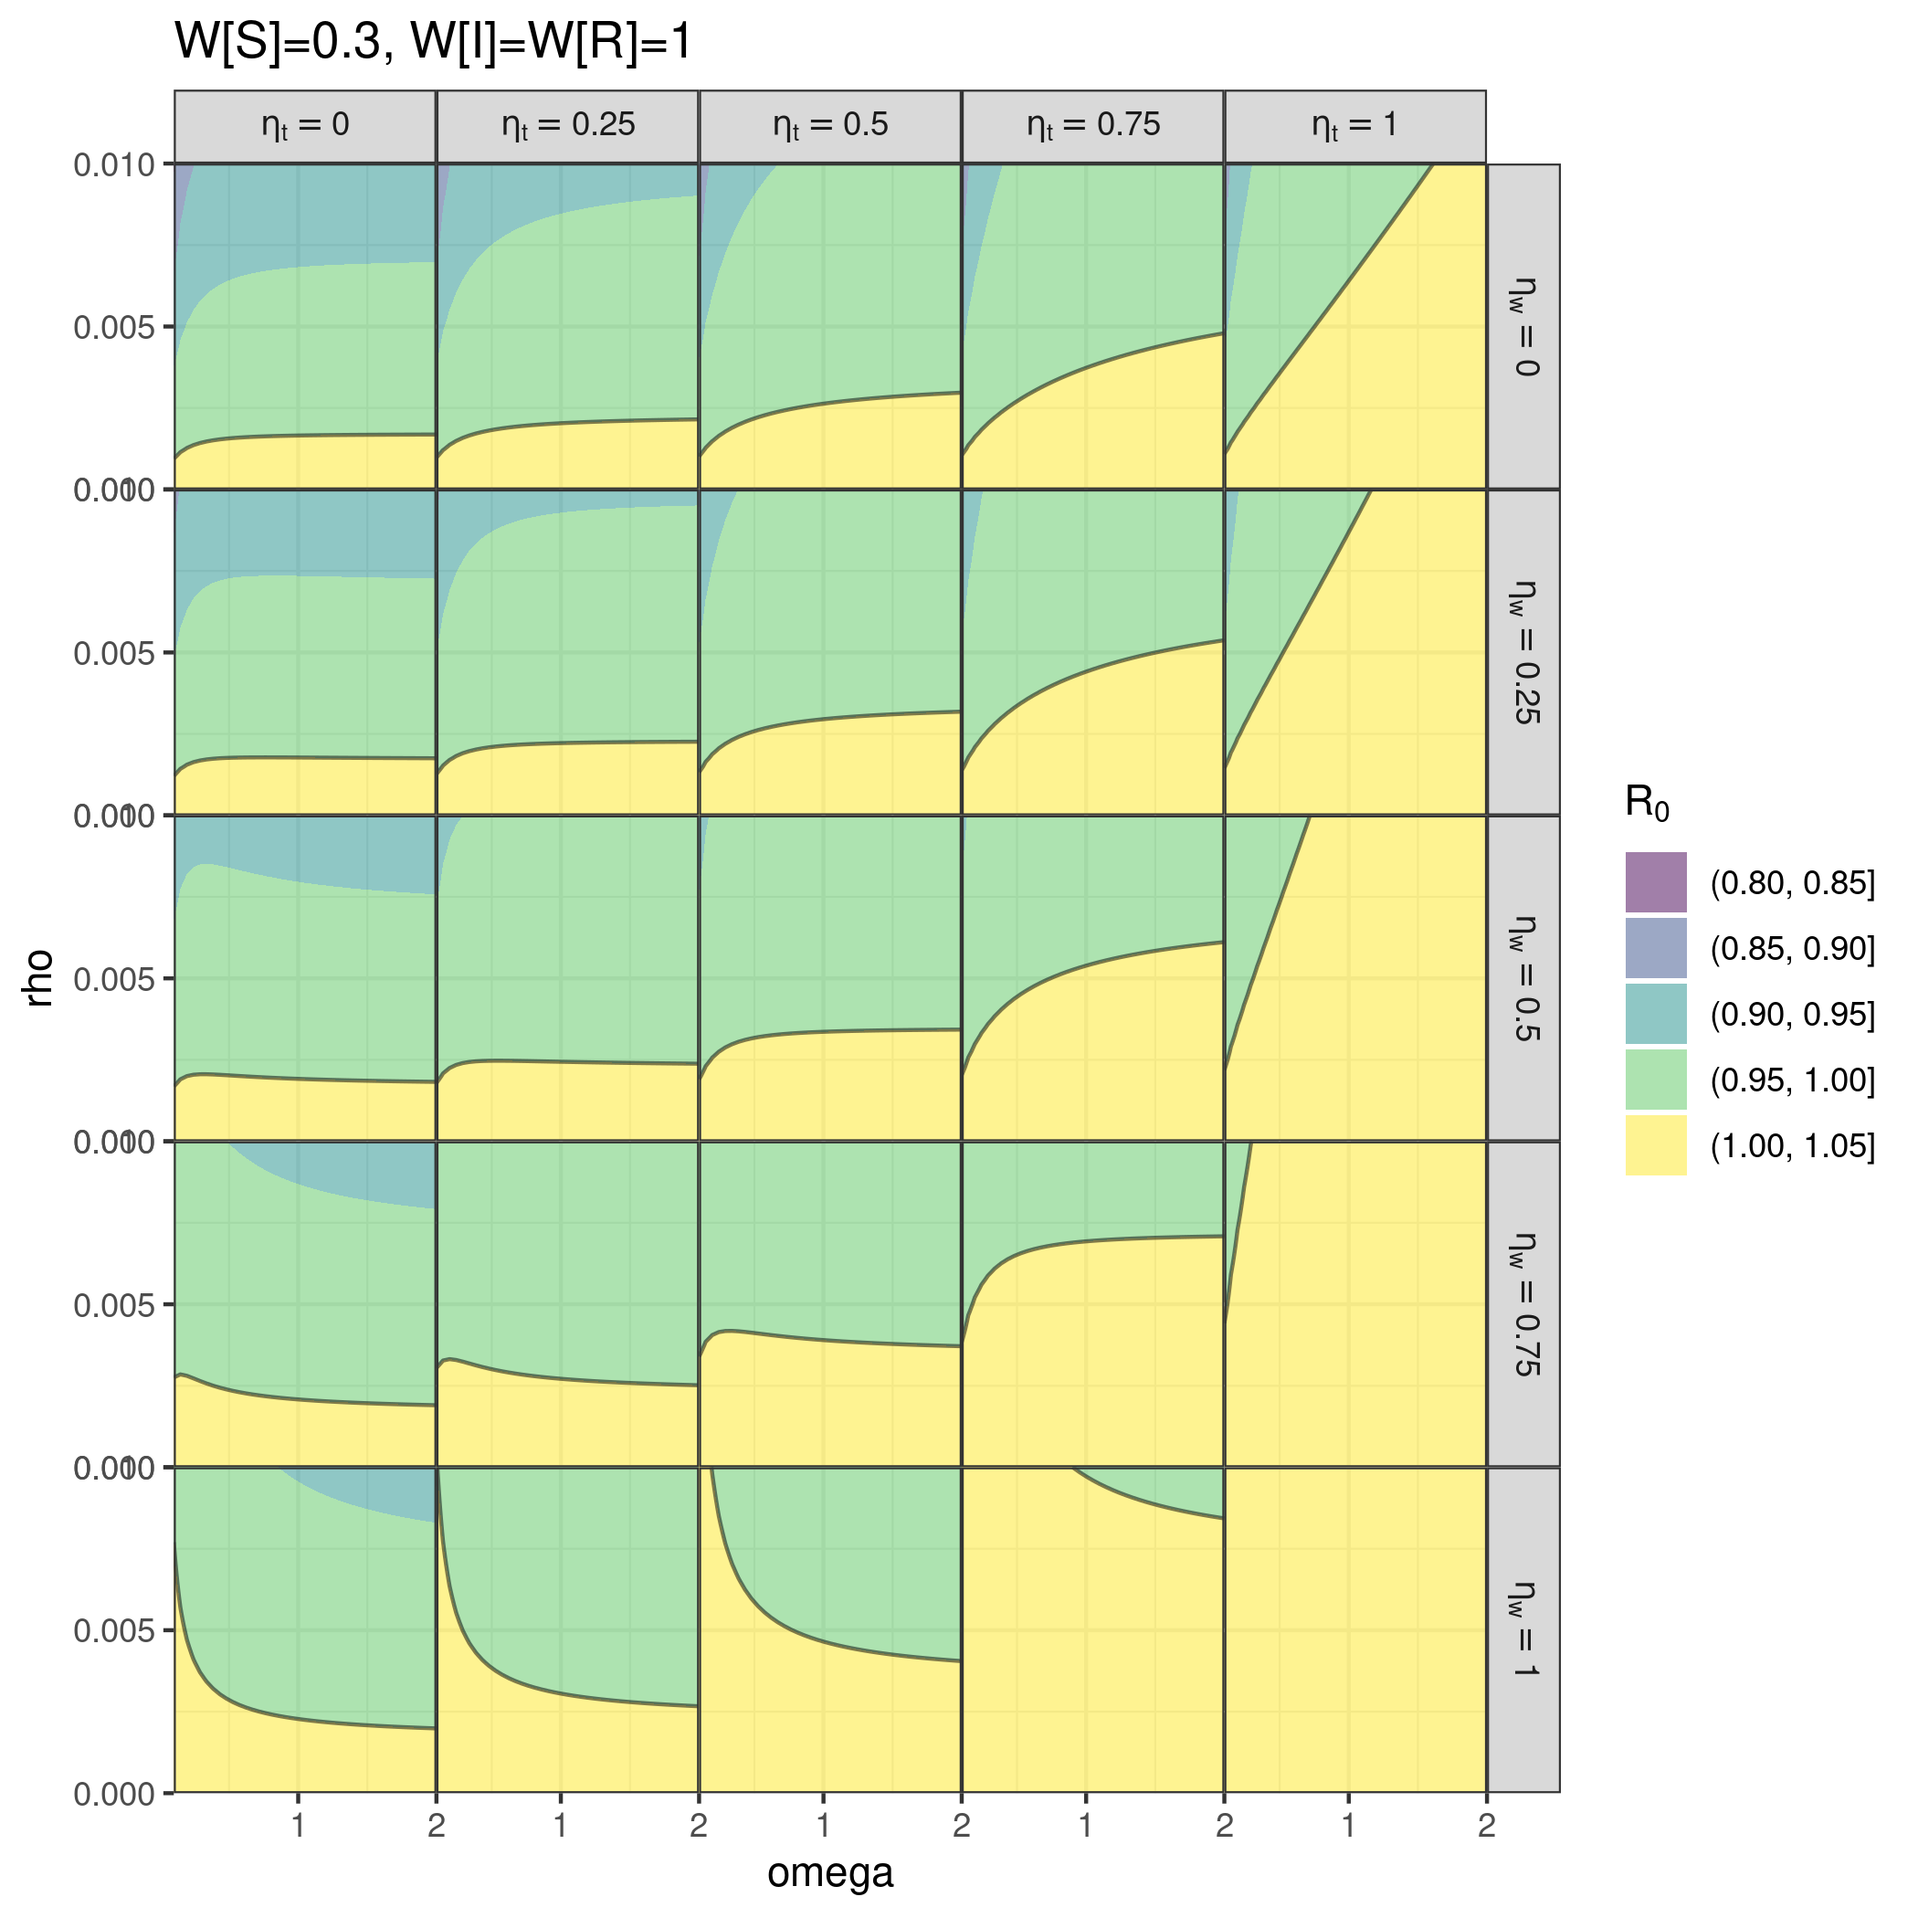
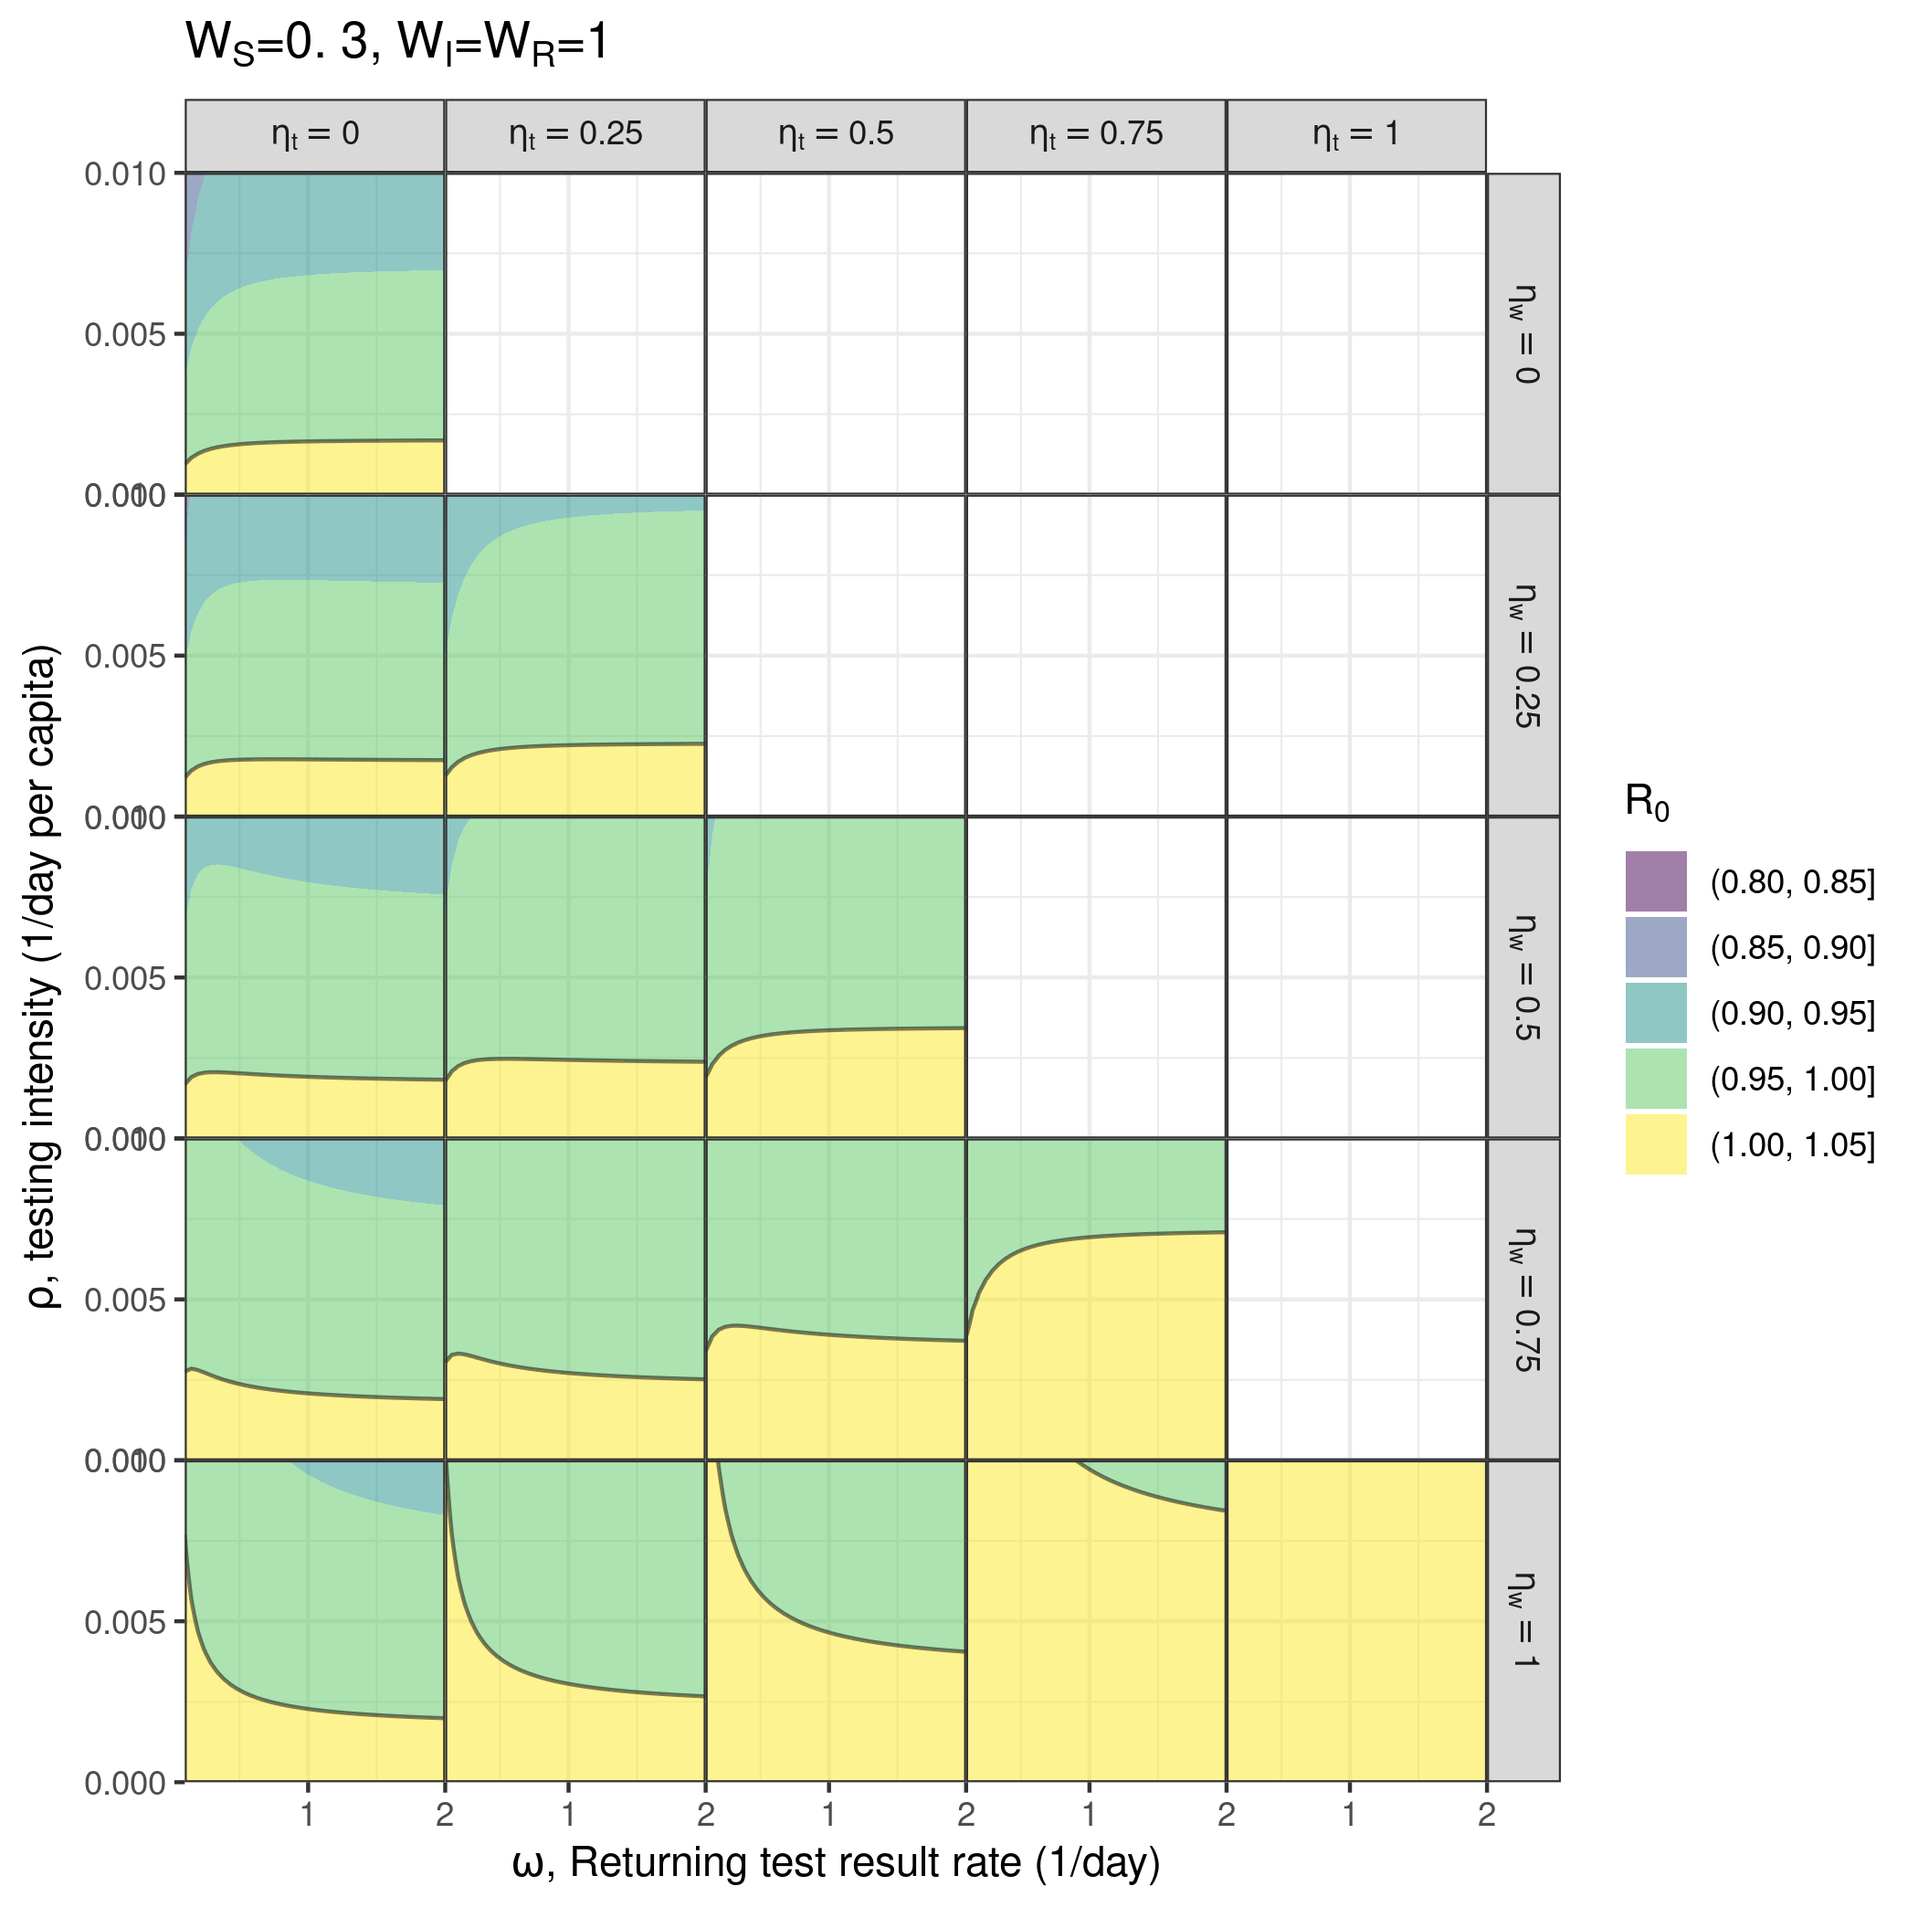
updated panel plot and manuscript

Changed region(s): [[0.0, 0.0, 0.8048, 0.9905], [0.7738, 0.8048, 0.8048, 0.8357]]

diff --git a/SIR_manuscript.tex b/SIR_manuscript.tex
@@ -30,7 +30,8 @@ infectious disease (ref: Ross R. The Prevention of Malaria, 2nd edn. London: Mur
 - Covid-19 and chalanges, questions to be addressed with a simple model.
 This study provides a framework/platform to study a pandamic in a population with a determinstic system of differential equations with testing mechinisms and isolation. 
 
-- Our work; we developed a deterministic compartmental model which incorporates testing strategies and isolation mechanism. 
+- What did we do? Why novel? 
+we developed a deterministic compartmental model which incorporates testing strategies and isolation mechanism. 
 - The basic reproduction number was derived analytically as a threshold of the dynamics. 
 - Our simulation shows ...
 
@@ -74,20 +75,18 @@ relatively controlled with effective testing, isolation, contract tracing and qu
 
 % %%%%%%%
 \section{Method}
-\begin{itemize}
-\item $\Lambda$: force of infection defined as $$\Lambda=\beta \frac{(I_u+\eta_w I_n+\eta_w I_p+ \eta_t I_t)}{N_0},$$ where $\beta$ is transmission rate, $\eta_w$ and $\eta_t$ are the isolation parameters for awaiting and reported individuals, respectively. We assume that $\eta_t \leq \eta_w$, i.e., the awaiting individuals for test results have a higher transmission probability than the reported individuals.
-\item $\omega$: the rate of onward flow from the awaiting positive compartment, $p$, to reported/tested compartment, $\rho$, or from awaiting negative compartment, $n$, back to $u$.  It has units of 1/time.
-\item $\gamma$: recovery rate (1/time).
-\item $\rho$: per capita testing intensity across the whole population (1/time).
-\item $W$: weighted number of people available for tests, defined as $W = W_S S_u + W_I I_u + W_R R_u$.
-\item $\sigma$: scaling parameter for testing defined as $\sigma = \frac{\rho N_0}{W}$.
-\item $F_Z$: Weighted testing rate defined as $F_Z=\sigma W_Z$. That is, $F_S = \sigma W_S$, $F_I=\sigma W_I$ and $F_R = \sigma W_R$.
-\end{itemize}
 
-\includegraphics[width=\linewidth]{./pix/sir_comp.png}
+We used a SIR (Susceptible-Infectious-Recovered) deterministic model. In order to collect cumulative reported negative or positive tests, two 'integrator' or 'accumulator' compartments, $N$ and $P$, were incorporated. The flowchart is 
+
+\begin{figure}[!h] 
+\begin{center} 
+\includegraphics[scale=0.3]{./pix/sir_comp.png}
+\caption{\small Flowchart of the SIR (Susceptible-Infectious-Recovered) model. Say more here to make it stand on its own.
+\label{fig:flowchart}} 
+\end{center} 
+\end{figure}
 
 The model is
-
 \begin{align}
 \label{model}
  d S_u/dt &= -\Lambda S_u - F_S S_u + \omega S_n \\
@@ -103,14 +102,59 @@ The model is
  d R_p/dt &= \gamma I_p + p_R F_R R_u  - \omega R_p  \\
  d R_t/dt&= \gamma I_t + \omega R_p  \\
  dN/dt &= \omega (S_n + I_n + R_n)   \\
- dP/dt &= \omega(I_p + R_p).
+ dP/dt &= \omega(I_p + R_p),
 \end{align}
 
-- Assumptions of this model:
+where $\beta$, (1/day), is the disease transmission rate, $\eta_w$ and $\eta_t$ are the isolation parameters for awaiting and reported individuals, respectively, $\Lambda$ is the force of infection and defined as 
+\begin{equation}
+\label{Lambda}
+\Lambda=\beta \frac{(I_u+\eta_w I_n+\eta_w I_p+ \eta_t I_t)}{N_0},
+\end{equation}
+where $N_0$ is the total population size. Further, $\omega$, (1/day), is the rate of onward flow from the awaiting positive or negative compartments to reported or untested compartments, respectively, $\gamma$, (1/day), is the recovery rate, $\rho$, (1/day), is the per capita testing intensity across the whole population. Further, various testing strategies are incorporated through the compartment-specific relative testing weights $W_S$, $W_I$ and $W_R$. The weighted number of people available for tests is defined as $W = W_S S_u + W_I I_u + W_R R_u$, and the scaling parameter for testing defined as \begin{equation}
+\label{sigma}
+\sigma = \frac{\rho N_0}{W}.
+\end{equation}
+Thus, the weighted testing rate defined as $F_Z=\sigma W_Z$, for $Z \in \{S,I,R\}$. 
+
+- In this model we assumed: (i) all groups being exposed to all others, (ii) there is a single force of infection, $\Lambda$, that is, where a susceptible individual move to does not depend on who infected it, (iii) for simplicity of the analysis, a perfectly specific test, $p_S=0$, was assumed, (iv)  $\eta_t \leq \eta_w$, i.e., the awaiting individuals for test results have a higher transmission probability than the reported individuals. 
 -why not bith and death are included?
 
 % %%%%%%%
 \section{Results}
+
+The Disease-Free Equilibrium, DFE hearafter, for the above SIR model is given by the solution of the following system $S_u+S_n=N0$ and $F_S S_u-\omega S_n=0$. The DFE is
+
+\begin{equation}
+\label{dfe}
+S_n^*= \frac{\rho}{\omega} N_0, S_u^*= N_0-S_n^*, \text{and} I_j=R_j=0 \ \forall j.
+\end{equation}
+
+The Basic reproduction number, $\Rnum$, was calculated by using the method of next generation matrix \cite{van2002reproduction}. See the Appendix for details.
+
+
+\begin{equation}
+\label{R0}
+\Rnum= (A \times S_u^* + B \times S_n^*) \times C, 
+\end{equation}
+where
+$A=\gamma(\omega+\gamma) + (\gamma \eta_w + \omega \eta_t p_I) F_I$,
+$B=\big(\omega+(F_I+\gamma)\eta_w\big) \gamma+\frac{(\eta_w \gamma+ \eta_t\omega) \omega p_I F_I }{\omega+\gamma}$ and 
+$C=\frac{\beta/\gamma}{N_0 (\gamma(\omega+\gamma)+F_I(\gamma+\omega p_I))}$.
+
+\begin{figure}[h!]
+\centering
+\begin{subfigure}[t]{.45\textwidth}
+\centering
+\includegraphics[width=\linewidth]{./pix/R0contour_random.png}
+        \caption{}\label{fig:res1_a}
+\end{subfigure}
+%
+\begin{subfigure}[t]{.45\textwidth}
+\centering
+\includegraphics[width=\linewidth]{./pix/R0contour_TTI.png}
+\caption{}\label{fig:res1_b}
+\end{subfigure}
+\end{figure}
 
 \subsection{rate of returning tests}
 The linearization of $\Rnum$ around $\rho=0$ is
@@ -213,6 +257,40 @@ When testing of infected individuals is more intense than susceptible individual
 
 % %%%%%%%
 \section{supplementary material}
+
+The next generation matrix, $G = F V^{-1}$, is in the lower triangular form with $F$ and $G$ as follows.
+
+
+\begin{equation}\label{FV}
+F= \beta/N_0 \left[ \begin {array}{cccc} 
+S_u&\eta_w\,S_u&\eta_w\,S_u&\eta_t\,S_u\\
+S_n&\eta_w\,S_n&\eta_w\,S_n&\eta_t\,S_n\\ 
+0&0&0&0\\
+0&0&0&0
+ \end {array} \right],
+ V=
+ \left[ \begin {array}{cccc}  
+F_I+\gamma&-\omega&0&0\\
+-(1-p_I)F_I&\omega+\gamma&0&0\\
+-p_I F_I&0&\omega+\gamma&0\\
+0&0&-\omega&\gamma
+\end {array} \right],
+\end{equation}
+
+\begin{equation}
+G = \left[ \begin {array}{cc}
+G_{11}&G_{12}\\
+0&0
+\end {array} \right], \text{ where } \\
+G_{11} =C
+\left[\begin {array}{cc}
+A\,S_u & B\,S_u\\
+A\,S_n & B\,S_n
+\end {array}\right],
+\end{equation}
+
+The Eigenvalues of $G_{11}$, are 0 and $\Rnum$.
+
 
 \end{document}
 

diff --git a/smoothing.tex b/smoothing.tex
@@ -36,4 +36,6 @@ We intuitively know testing/tracing/isolation (TTI) strategy is more effective t
 (i)  How much TTI is lowering $R_0$? 
 (ii) How fast TTI is lowering $R_0$?
 
+\citep{endo2020implication}
+
 
